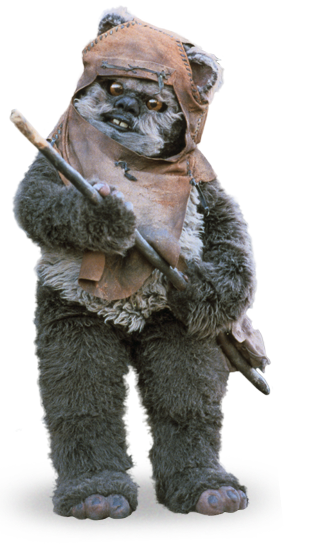
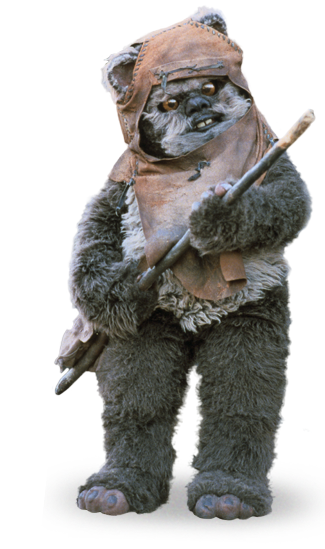
interaction with scout trooper on endor is done

diff --git a/public/js/endor.js b/public/js/endor.js
@@ -7,13 +7,28 @@ $(document).ready(function(){
 	$('.character2').css("height", "35%");
 	$('.character2').css("left", "320px");
 	$('.character2').css("bottom", "65px");
-	$('.character1').css("left", "320px");
-	$('.character1').css("bottom", "65px");
-	$('.character1').hide();
+	$('.character1').css("left", "350px");
+	$('.character1').css("bottom", "80px");
+	$('.ewokPic').hide();
 
 	$(".trooperQuestion1").hide();
 	$(".trooperResponse1").hide();
 	$(".trooperQuestion2").hide();
+	$(".trooperQuestion3").hide();
+	$(".trooperResponse2").hide();
+	$(".trooperResponse3").hide();
+	$(".trooperResponse4").hide();
+	$(".trooperResponse5").hide();
+	$(".trooperQuestion4").hide();
+	$(".trooperQuestion5").hide();
+	$(".trooperQuestion6").hide();
+	$(".trooperQuestion7").hide();
+	$(".trooperQuestion8").hide();
+	$(".trooperQuestion9").hide();
+	$(".trooperQuestion10").hide();
+	$(".trooperQuestion11").hide();
+	$(".trooperQuestion12").hide();
+
 
 
 
@@ -30,6 +45,7 @@ $(document).ready(function(){
 		setTimeout(function(){
 			$(".dialogueBox").hide();
 			$(".trooperPic").hide();
+			$(".ewokPic").show();
 			$(".trooperQuestion2").hide();
 		}, 5000)
 	});
@@ -37,12 +53,115 @@ $(document).ready(function(){
 	$(".trooper_vader").on('click', function() {
 		$(".trooperQuestion1").hide();
 		$(".trooperResponse1").hide();
+		$(".trooperQuestion3").show();
+		$(".trooperResponse2").show();
+	});
+
+	$(".trooper_advisor").on('click', function(){
+		$(".trooperQuestion3").hide();
+		$(".trooperResponse2").hide();
+		$(".trooperQuestion4").show();
+		setTimeout(function(){
+			$(".dialogueBox").hide();
+			$(".trooperPic").hide();
+			$(".ewokPic").show();
+			$(".trooperQuestion4").hide();
+		}, 8000)
+	});
+
+	$(".trooper_displeased").on('click', function() {
+		$(".trooperQuestion3").hide();
+		$(".trooperResponse2").hide();
+		$(".trooperQuestion5").show();
+		$(".trooperResponse3").show();
+	});
+
+	$(".trooper_alittle").on('click', function() {
+		$(".trooperQuestion5").hide();
+		$(".trooperResponse3").hide();
+		$(".trooperQuestion7").show();
+		$.ajax({
+			url: "/credits",
+			data: {amount: 40000},
+			method: "PUT"
+		}).done(function(data){
+			$("#credits").text("credits: " + data.credits);
+		});
+		setTimeout(function(){
+			$(".dialogueBox").hide();
+			$(".trooperPic").hide();
+			$(".ewokPic").show();
+			$(".trooperQuestion7").hide();
+		}, 6500)
+	});
+
+	$(".trooper_alot").on('click', function() {
+		$(".trooperQuestion5").hide();
+		$(".trooperResponse3").hide();
+		$(".trooperQuestion6").show();
+		setTimeout(function(){
+			$(".dialogueBox").hide();
+			$(".trooperPic").hide();
+			$(".ewokPic").show();
+			$(".trooperQuestion6").hide();
+		}, 6500)
 	});
 
 	$(".trooper_compliment").on('click', function() {
 		$(".trooperQuestion1").hide();
 		$(".trooperResponse1").hide();
+		$(".trooperQuestion8").show();
+		$(".trooperResponse4").show();
 	});
 
+	$(".trooper_handy").on('click', function() {
+		$(".trooperQuestion8").hide();
+		$(".trooperResponse4").hide();
+		$(".trooperQuestion9").show();
+		setTimeout(function(){
+			$(".dialogueBox").hide();
+			$(".trooperPic").hide();
+			$(".ewokPic").show();
+			$(".trooperQuestion9").hide();
+		}, 6500)
+	});
+
+	$(".trooper_intel").on('click', function() {
+		$(".trooperQuestion8").hide();
+		$(".trooperResponse4").hide();
+		$(".trooperQuestion10").show();
+		$(".trooperResponse5").show();
+	});
+
+	$(".trooper_money_first").on('click', function() {
+		$(".trooperQuestion10").hide();
+		$(".trooperResponse5").hide();
+		$(".trooperQuestion11").show();
+		setTimeout(function(){
+			$(".dialogueBox").hide();
+			$(".trooperPic").hide();
+			$(".ewokPic").show();
+			$(".trooperQuestion11").hide();
+		}, 6500)
+	});
+
+	$(".trooper_tell").on('click', function() {
+		$(".trooperQuestion10").hide();
+		$(".trooperResponse5").hide();
+		$(".trooperQuestion12").show();
+		$.ajax({
+			url: "/credits",
+			data: {amount: 40000},
+			method: "PUT"
+		}).done(function(data){
+			$("#credits").text("credits: " + data.credits);
+		});
+		setTimeout(function(){
+			$(".dialogueBox").hide();
+			$(".trooperPic").hide();
+			$(".ewokPic").show();
+			$(".trooperQuestion12").hide();
+		}, 6500)
+	});
 
 });
